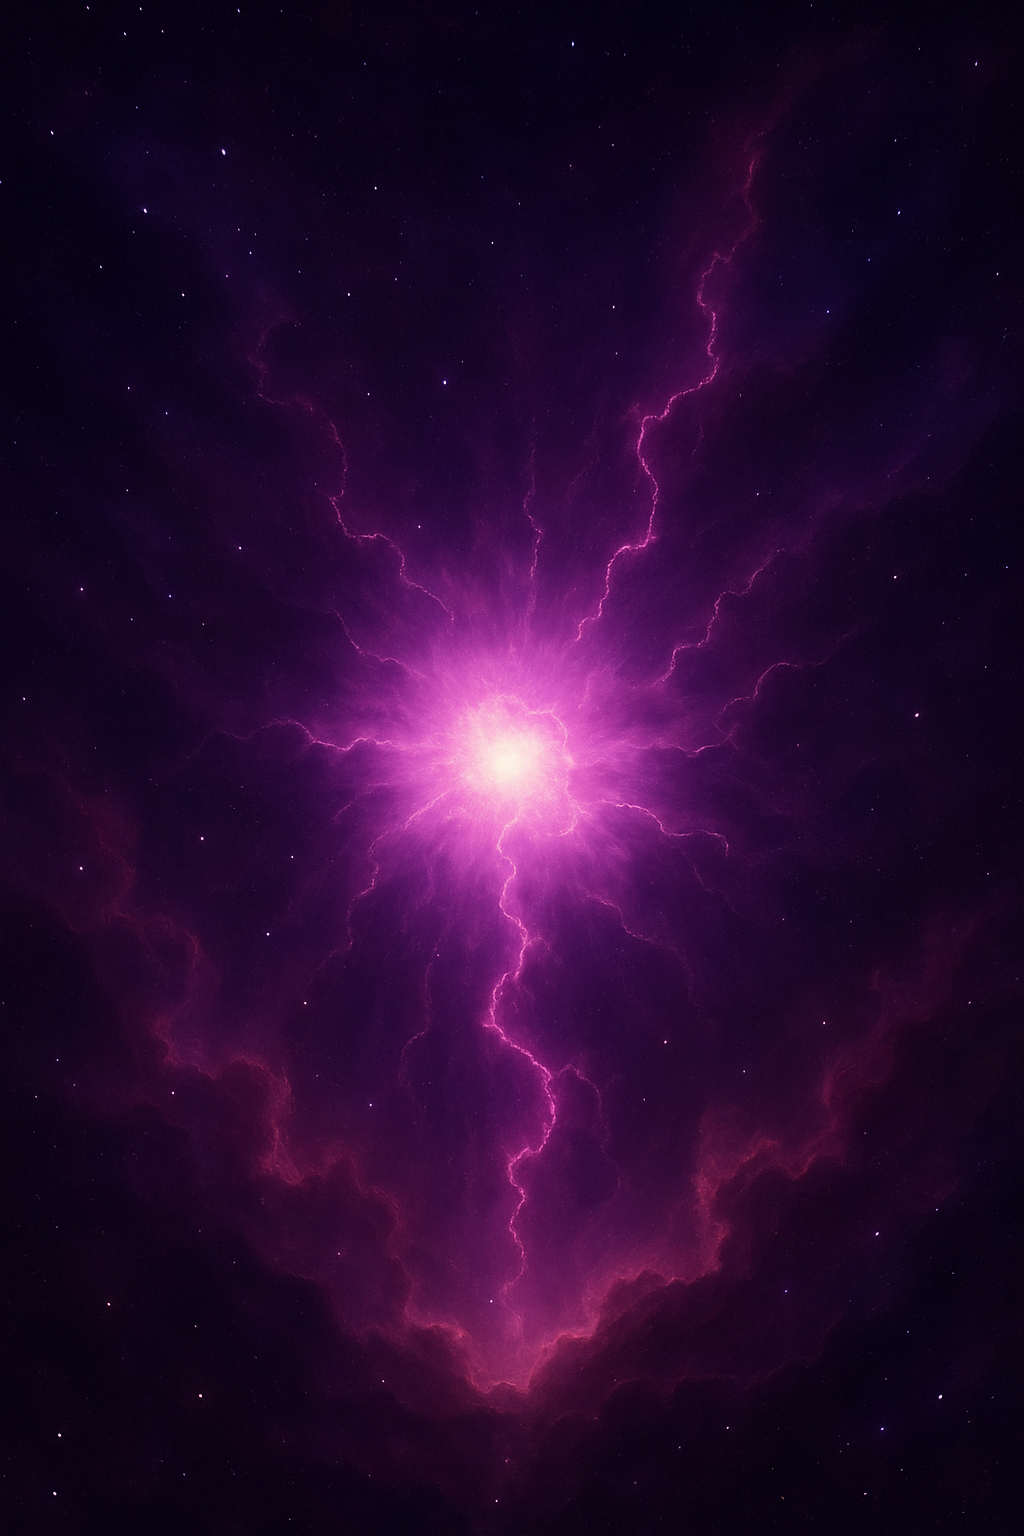
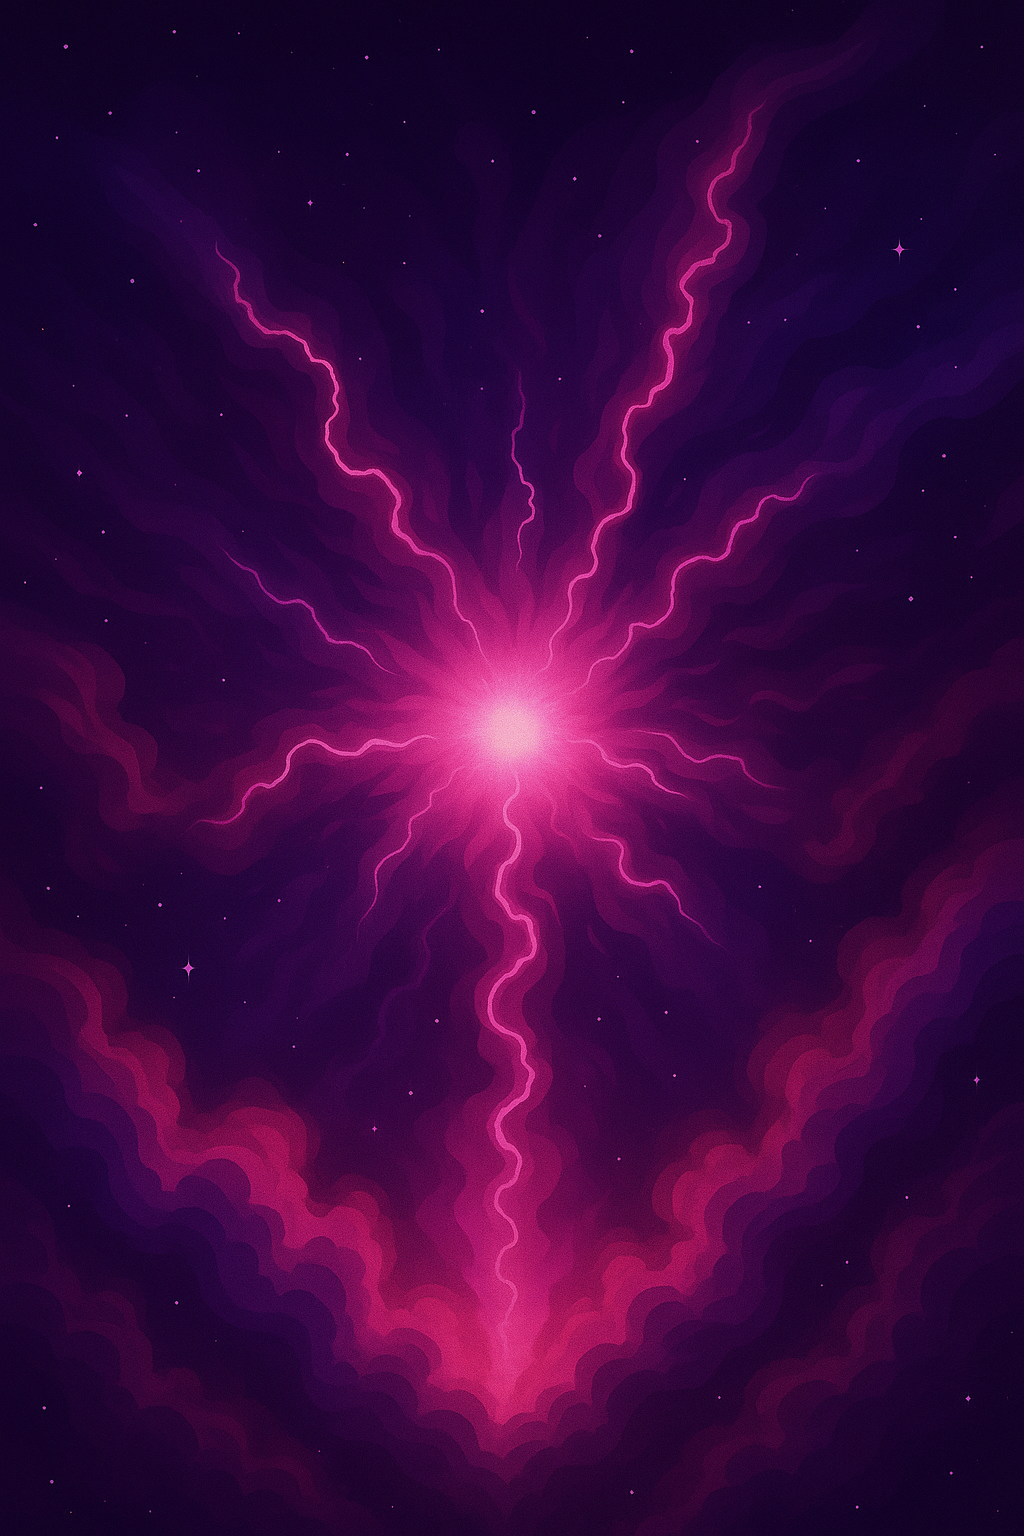
Updated art style
Reimagined art style to more 2d cell shaded Arcane inspired

diff --git a/Project MyFi/js/dashboard.js b/Project MyFi/js/dashboard.js
@@ -188,26 +188,24 @@ document.addEventListener("DOMContentLoaded", () => {
       const portraitImage = document.querySelector(".portrait");
       let portraitKey = playerData.portraitKey || "default";
 
-      if (playerData.firstName == "Emkay") {
-        portraitKey = 'avatarEmkay';
-      } else if (playerData.firstName == "Alie") {
-        portraitKey = 'avatarAlie';
-      } else if (playerData.firstName == "Richard") {
-        portraitKey = 'avatarRichard';
-      } else if (playerData.firstName == "Mohammed") {
-        portraitKey = 'avatarMohammed';
-      } else if (playerData.firstName == "Jane") {
-        portraitKey = 'avatarJane';
-      } else if (playerData.firstName == "Amandeep") {
-        portraitKey = 'avatarAmandeep';
-      } else if (playerData.firstName == "Matthew") {
-        portraitKey = 'avatarMatthew';
-      } else if (playerData.firstName == "Gerard") {
-        portraitKey = 'avatarGerard';
-      } else if (playerData.firstName == "Sammi") {
-        portraitKey = 'avatarSammi';
+      // Randomly select between realistic and cartoon mode.
+      // If cartoon mode, append _v2 to filename.
+      const isCartoonMode = Math.random() < 1.0; // 50% chance
+
+      // List of supported names for portraits
+      const portraitNames = [
+        "Emkay", "Alie", "Richard", "Mohammed", "Jane",
+        "Amandeep", "Matthew", "Gerard", "Sammi"
+      ];
+
+      if (portraitNames.includes(playerData.firstName)) {
+        portraitKey = 'avatar' + playerData.firstName;
       } else {
         portraitKey = 'default';
+      }
+
+      if (!isCartoonMode) {
+        portraitKey += '_v2';
       }
 
       console.log("Using portrait key:", portraitKey);

diff --git a/Project MyFi/js/splash.js b/Project MyFi/js/splash.js
@@ -1,16 +1,15 @@
 // js/splash.js
 const DEFAULT_IMAGES = [
-  './assets/splash/splash_01.png',
-  './assets/splash/splash_02.png',
-  './assets/splash/splash_03.png',
-  './assets/splash/splash_04.png',
-  './assets/splash/splash_05.png',
-  './assets/splash/splash_06.png',
-  './assets/splash/splash_07.png',
-  './assets/splash/splash_08.png',
-  './assets/splash/splash_09.png',
-  './assets/splash/splash_10.png',
-  './assets/splash/splash_11.png'
+  './assets/splash/avatarEmkay.png',
+  './assets/splash/avatarRichard.png',
+  './assets/splash/avatarAlie.png',
+  './assets/splash/avatarJane.png',
+  './assets/splash/avatarSammi.png',
+  './assets/splash/avatarAmandeep.png',
+  './assets/splash/avatarMohammed.png',
+  './assets/splash/avatarGerard.png',
+  './assets/splash/avatarMatthew.png',
+  // './assets/splash/avatarHaiyang.png',
 ];
 
 const DEFAULT_TIPS = [
